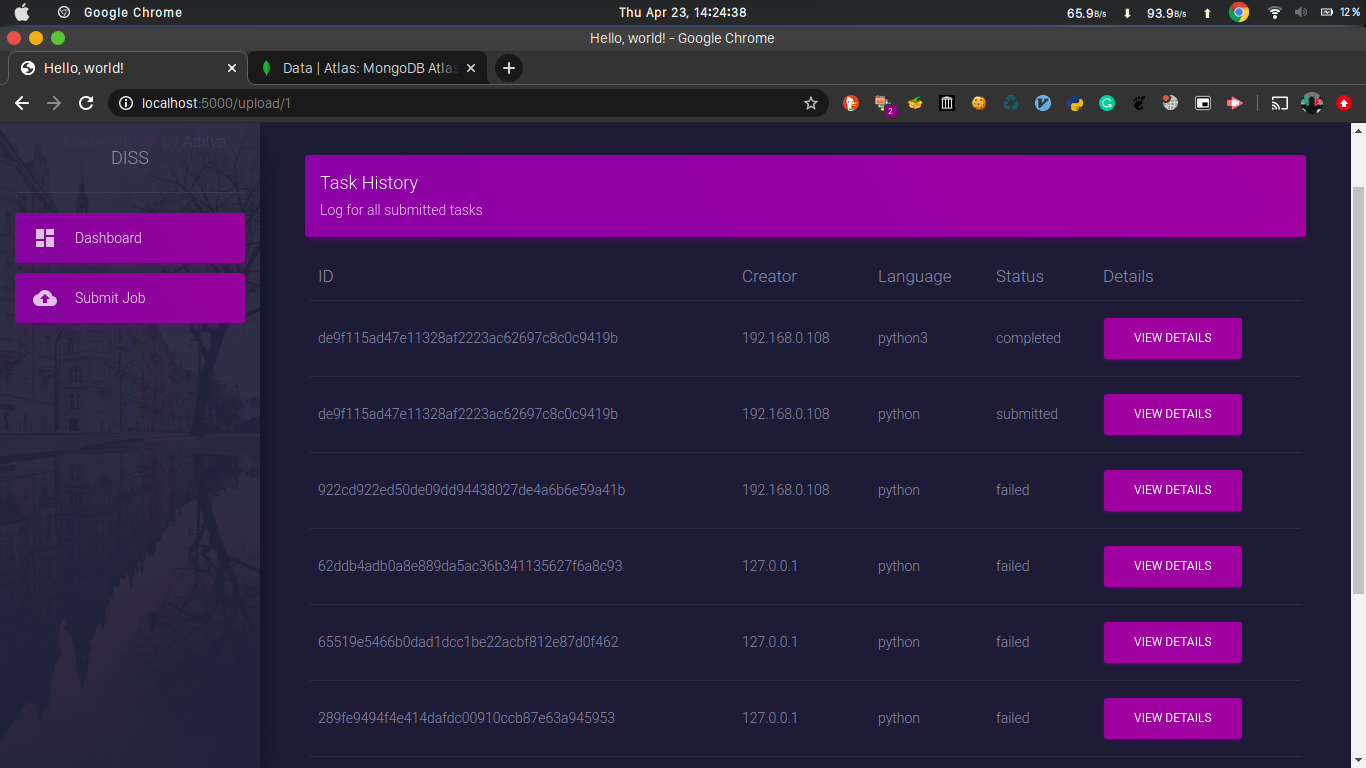
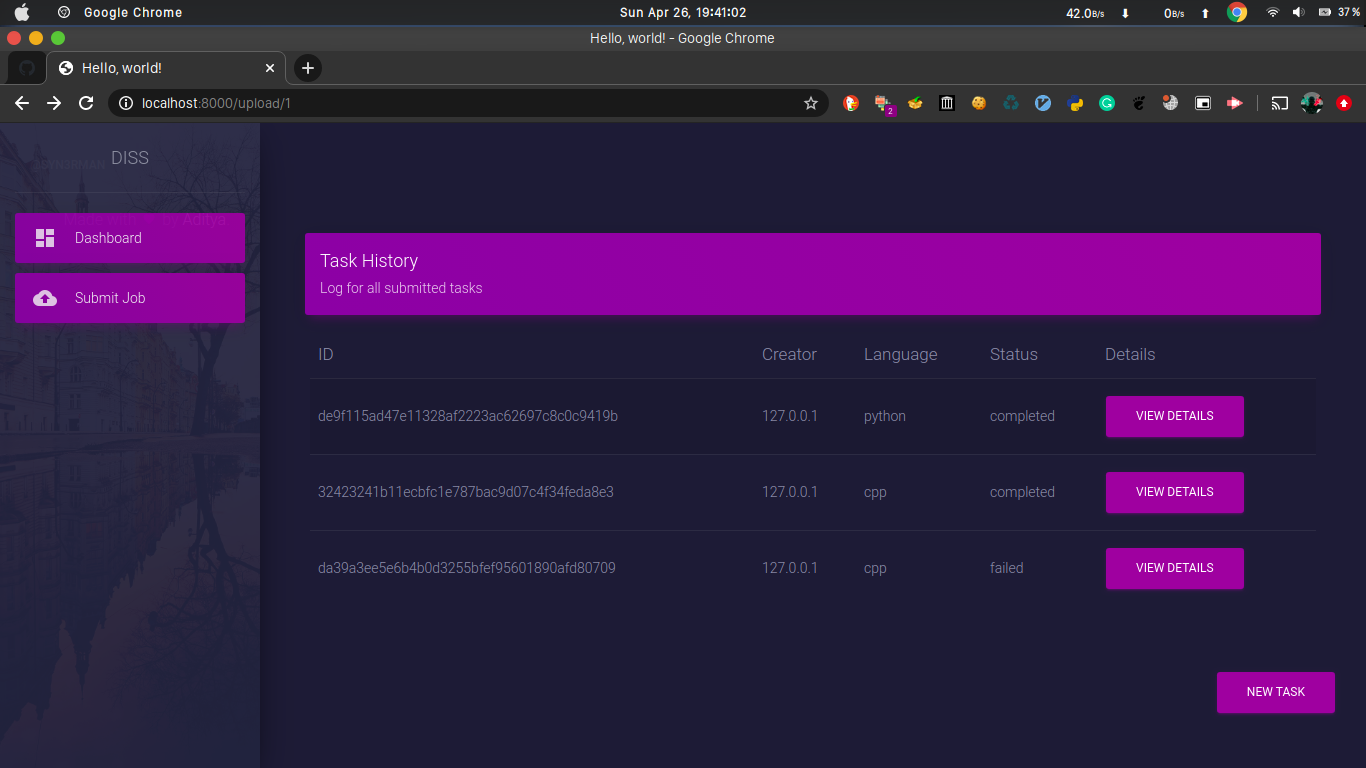
fin ui and update screenshots

diff --git a/client/templates/dashboard.html b/client/templates/dashboard.html
@@ -93,6 +93,42 @@
                 </div>
             </div>
           
+            
+            <div class="col-xl-4 col-lg-12">
+              <div class="card card-chart">
+                <div class="card-header card-header-warning">
+                  <div class="ct-chart" id="websiteViewsChart"></div>
+                </div>
+                <div class="card-body">
+                  <h4 class="card-title">Mean time to completion</h4>
+                  <p class="card-category">Average time taken to complete tasks</p>
+                </div>
+                <div class="card-footer">
+                  <div class="stats">
+                    <i class="material-icons">access_time</i> 02:04
+                  </div>
+                </div>
+              </div>
+            </div>
+            <div class="col-xl-4 col-lg-12">
+              <div class="card card-chart">
+                <div class="card-header card-header-danger">
+                  <div class="ct-chart" id="completedTasksChart"></div>
+                </div>
+                <div class="card-body">
+                  <h4 class="card-title">Completed Tasks</h4>
+                  <p class="card-category">Number of completed tasks for previous week</p>
+                </div>
+                <div class="card-footer">
+                  <div class="stats">
+                    <i class="material-icons">access_time</i> 231
+                  </div>
+                </div>
+              </div>
+            </div>
+          </div>
+
+
             </div>
         </div>
       </div>

diff --git a/client/templates/upload.html b/client/templates/upload.html
@@ -78,7 +78,7 @@
                             <td>{{ job["submittedBy"] }}</td>
                             <td>{{ job["language"] }}</td>
                             <td>{{ job["status"] }}</td>
-                            <td><a href="{{ url_for("job_info", id=job.id) }}" class="btn btn-primary btn" role="button">View details</a></td>
+                            <td><a href="{{ url_for("tasks_info", id=job.id) }}" class="btn btn-primary btn" role="button">View details</a></td>
                         </tr>
                         {% endfor %}
                     </tbody>
